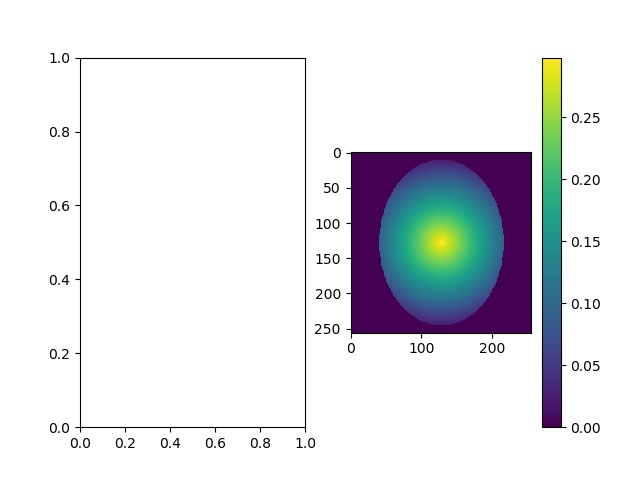
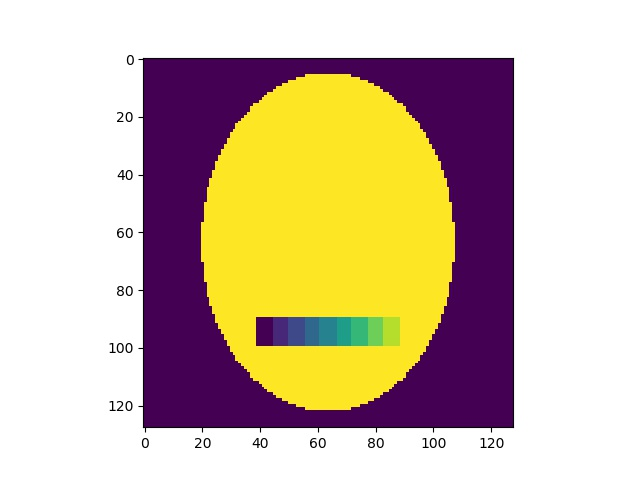
phantom size and testing

diff --git a/phantom/phantom.py b/phantom/phantom.py
@@ -44,7 +44,7 @@ def phantom_ellipses(npx: int, ellipses: np.array = None):
     return p
 
 
-def create_phantom(n_offsets: int, npx: int = 256) -> np.array:
+def create_phantom(n_offsets: int, npx: int = 128) -> np.array:
     phantom = np.zeros([n_offsets, npx, npx])
 
     for i in range(n_offsets):
@@ -67,7 +67,7 @@ def create_phantom(n_offsets: int, npx: int = 256) -> np.array:
     return phantom
 
 
-def set_mag(phantom: np.array, n_offsets: int, mvec: np.array, npx: int = 256):
+def set_mag(phantom: np.array, n_offsets: int, mvec: np.array, npx: int = 128):
     for i in range(n_offsets):
         e = [[1., .6900, .920, 0., 0., 0.],
              [-.9, .6624, .874, 0., -.0184, 0.],
@@ -88,7 +88,7 @@ def set_mag(phantom: np.array, n_offsets: int, mvec: np.array, npx: int = 256):
 
 
 
-def phantom_compartments(mz: np.array, sp: Params, offsets: list, npx: int = 256, seq_file: str = None, mtr_asym: bool = False):
+def phantom_compartments(mz: np.array, sp: Params, offsets: list, npx: int = 128, seq_file: str = None, mtr_asym: bool = False):
     if seq_file:
         z = get_z(mz=mz, seq_file=seq_file)
     else:
@@ -130,7 +130,7 @@ def phantom_compartments(mz: np.array, sp: Params, offsets: list, npx: int = 256
 
 
 def phantom_tissues_cest(mz_gm: np.array, sp_gm: Params, mz_wm: np.array, sp_wm: Params, mz_cf: np.array, sp_cf: Params,
-                    offsets: list, npx: int = 256, seq_file: str = None, mtr_asym: bool = False):
+                    offsets: list, npx: int = 128, seq_file: str = None, mtr_asym: bool = False):
     """
     function to create a phantom_examples contrasting simulations fo gray matter (gm), white matter (wm) and cerebral fluid (cf)
     """
@@ -166,12 +166,12 @@ def phantom_tissues_cest(mz_gm: np.array, sp_gm: Params, mz_wm: np.array, sp_wm:
     return phantom
 
 
-def phantom_tissues(npx: int = 256, b0: float = 3, f_tissue: (str, None) = "wm"):
+def phantom_tissues(npx: int = 128, b0: float = 3, f_tissue: (str, None) = "wm"):
     """
     creates a phantom_examples for the stated tissue types (gm: gray matter, wm: white matter and csf: cerebrospinal fluid)
     with the according t1 and t2 values from tissue_library.py and optionally a range of pool-fraction-parameters for
     one of the tissue types (if f_matter = "gm", "wm" or "csf").
-    :param  npx: int (pixel size of the phantom_examples, default = 256)
+    :param  npx: int (pixel size of the phantom_examples, default = 128)
     :param  f_tissue: str (optional tissue type to create a fraction range from, default = "wm", set to None for no
             fraction range in the phantom_examples)
     :param b0: float (field strength in T, default = 3)
@@ -193,48 +193,44 @@ def phantom_tissues(npx: int = 256, b0: float = 3, f_tissue: (str, None) = "wm")
             t_comp = compartments[i]
             if t == 0:
                 t_comp[0] = get_t1(tissue=tissues[i], b0=0)
-                print(tissues[i], " T1: ", t_comp[0])
             elif t == 1:
                 t_comp[0] = get_t2(tissue=tissues[i], b0=0)
-                print(tissues[i], " T2: ", t_comp[0])
             phantom_temp.append(t_comp)
         # phantom_temp.append(p[0])
         # phantom_temp.append(p[1])
         phantom_t[t, :, :] = phantom_ellipses(npx=npx, ellipses=phantom_temp)
     if f_tissue:
-        phantom_t[0, 190:200, 78:178] = get_t1(tissue=f_tissue, b0=b0)
-        print(f_tissue, " T1: ", phantom_t[0, 191, 79])
-        phantom_t[1, 190:200, 78:178] = get_t2(tissue=f_tissue, b0=b0)
-        print(f_tissue, " T2: ", phantom_t[1, 191, 79])
+        phantom_t[0, 90:100, 39:89] = get_t1(tissue=f_tissue, b0=b0)
+        phantom_t[1, 90:100, 39:89] = get_t2(tissue=f_tissue, b0=b0)
     return phantom_t
 
 
-def phantom_fractions(npx: int = 256, f_base: float = 10e-3 ,n_fractions: int = 10, f_range: tuple = (0, 10e-3)):
-    compartments = np.linspace(78, 178, n_fractions)
+def phantom_fractions(npx: int = 128, f_base: float = 10e-3 ,n_fractions: int = 10, f_range: tuple = (0, 10e-3)):
+    compartments = np.linspace(39, 89, n_fractions)
     fractions = np.linspace(f_range[0], f_range[1], n_fractions)
     phantom_f = np.zeros([1, npx, npx])
     phantom_base = [[f_base, .6900, .920, 0., 0., 0.]]
     phantom_f[0, :, :] = phantom_ellipses(npx=npx, ellipses=phantom_base)
     for i in range(n_fractions-1):
-        phantom_f[0, 190:200, int(round(compartments[i])):int(round(compartments[i+1]))] = fractions[i]
+        phantom_f[0, 90:100, int(round(compartments[i])):int(round(compartments[i+1]))] = fractions[i]
     return phantom_f
 
 
-def phantom_b1_inhom(npx: int = 256, min_inhom: float = -0.3, max_inhom: float = 0.3, center: (tuple, None) = (0, 0)):
+def phantom_b1_inhom(npx: int = 128, min_inhom: float = -0.3, max_inhom: float = 0.3, center: (tuple, None) = (0, 0)):
     phantom_b1 = np.zeros([1, npx, npx])
     phantom_base = [[1, .6900, .920, 0., 0., 0.]]
     phantom_b1[0, :, :] = phantom_ellipses(npx=npx, ellipses=phantom_base)
     inhom_range = max_inhom - min_inhom
-    x = y = np.linspace(-inhom_range, inhom_range, 256)
-    # y = np.linspace(0, max_inhom - min_inhom, 256)
+    x = y = np.linspace(-inhom_range, inhom_range, 128)
+    # y = np.linspace(0, max_inhom - min_inhom, 128)
     xx, yy = np.meshgrid(x, y)
     r = np.sqrt(xx ** 2 + yy ** 2)
-    b1_inhom = np.ones((256, 256)) * 0.3 - r
+    b1_inhom = np.ones((128, 128)) * 0.3 - r
     phantom_b1[0, :, :] = phantom_b1[0, :, :] * b1_inhom
     return phantom_b1
 
 
-def phantom_b0_inhom(npx: int = 256, min_inhom: float = -0.3, max_inhom: float = 0.3, center: (tuple, None) = (0, 0)):
+def phantom_b0_inhom(npx: int = 128, min_inhom: float = -0.3, max_inhom: float = 0.3, center: (tuple, None) = (0, 0)):
     phantom_b0 = np.zeros([1, npx, npx])
     phantom_base = [[1, .6900, .920, 0., 0., 0.]]
     phantom_b0[0, :, :] = phantom_ellipses(npx=npx, ellipses=phantom_base)
@@ -243,7 +239,7 @@ def phantom_b0_inhom(npx: int = 256, min_inhom: float = -0.3, max_inhom: float =
     return phantom_b0
 
 
-def build_default_phantom(npx: int = 256, fractions: bool = True):
+def build_default_phantom(npx: int = 128, fractions: bool = True):
     phantom_t = phantom_tissues(npx)
     phantom_b0 = phantom_b0_inhom(npx)
     phantom_b1 = phantom_b1_inhom(npx)

diff --git a/simulate_phantom.py b/simulate_phantom.py
@@ -10,13 +10,13 @@ phantom = build_default_phantom()
 # phantom_fig = plot_phantom(phantom)
 
 
-seq_file = 'example/wasabi/example_wasabi.seq'
+seq_file = 'example/example_APTw_test.seq'
 
 b0 = 3  # T
 gamma = 267.5153  # rad/uT
-scale = 1
+scale = 0.5
 
-p_t1, p_t2, p_b0, p_b1 = [phantom[i] for i in range(4)]
+p_t1, p_t2, p_b0, p_b1, p_f = [phantom[i] for i in range(5)]
 n_vars, n_rows, n_cols = phantom.shape
 simulations = {}
 
@@ -28,12 +28,21 @@ for loc in np.ndindex(n_rows, n_cols):
             print(loc, 'from <', n_rows, 'x', n_cols)
             sp = Params()
             b0_inhom = p_b0[loc]
-            rel_b1 = p_b1[loc]
+            rel_b1 = 1 + p_b1[loc]
             sp.set_scanner(b0=b0, gamma=gamma, b0_inhomogeneity=b0_inhom, rel_b1=rel_b1)
             f_w = 1
             r1_w = 1 / p_t1[loc]
             r2_w = 1 / p_t2[loc]
             sp.set_water_pool(r1=r1_w, r2=r2_w, f=f_w)
+            # define CEST pool parameters
+            # strong pool
+            r1 = r1_w  # [Hz]
+            r2 = 1 / 100e-3  # [Hz]
+            k = 40  # exchange rate[Hz]
+            f = p_f[loc]  # rel
+            dw = 5  # [ppm]
+            # set CEST pool parameters
+            sp.set_cest_pool(r1=r1, r2=r2, k=k, f=f, dw=dw)
             sp.set_m_vec(scale)
             Sim = BMCTool(sp, seq_file)
             Sim.run()
@@ -41,12 +50,13 @@ for loc in np.ndindex(n_rows, n_cols):
             mz = sp.get_mz(m_out)
             simulations.update({loc: sp})
             print('Mz: \n', mz)
+
 time1 = time()
 secs = time1 - time0
 print("Simulations took", secs, "s.")
 
 offsets = get_offsets(seq_file)
-dw = 1
+dw = 0.7
 offsets = np.array(offsets)
 idx = int(np.where(offsets == offsets[np.abs(offsets - dw).argmin()])[0])
 import matplotlib.pyplot as plt
@@ -55,7 +65,7 @@ phantom_sim = np.zeros([len(offsets), n_rows, n_cols])
 for o in range(len(offsets)):
     for loc in list(simulations.keys()):
         phantom_sim[o, loc[0], loc[1]] = simulations[loc].mz[o]
-for i in [5, 20, 30]:
+for i in [5, 20, 27]:
      fig, ax = plt.subplots(figsize=(12, 9))
      tmp = ax.imshow(phantom_sim[i])
      plt.title(str(offsets[i]))
@@ -69,8 +79,13 @@ fig, ax1 = plt.subplots()
 ax1.set_ylim([0, 1])
 ax1.set_ylabel('Z', color='b')
 ax1.set_xlabel('Offsets')
-plt.plot(offsets, mz, '.--', label='$Z$', color='b')
+labels = ["gm top", "gm mid", "gm bottom", "wm bottom left", "wm top right ", "csf"]
+locs = [(38, 128), (115, 128), (224, 128), (153, 82), (50, 155), (124, 144)]
+for i in range(len(locs)):
+    mz = simulations[locs[i]].mz[1:]
+    plt.plot(offsets, mz, '.--', label=labels[i])
 plt.gca().invert_xaxis()
+plt.legend()
 plt.show()
 ax1.tick_params(axis='y', labelcolor='b')
 # from sim_bmc.bmc_tool_v2 import BMCTool

diff --git a/example/phantom_examples/build_phantom.py b/example/phantom_examples/build_phantom.py
@@ -1,10 +1,18 @@
-from phantom.phantom import phantom_b0_inhom, phantom_b1_inhom,  phantom_fractions, phantom_tissues, plot_phantom
+"""
+build_phantom.py
+    test file for phantoms
+"""
+
+from phantom.phantom import phantom_b0_inhom, phantom_b1_inhom,  phantom_fractions, phantom_tissues
 import matplotlib.pyplot as plt
 
 phantom_t = phantom_tissues()
 
 phantom_f = phantom_fractions()
 
+fig, ax = plt.subplots()
+ax.imshow(phantom_f[0])
+plt.show()
 fig_t, [ax_t1, ax_t2, ax_f, ax_b0, ax_b1] = plt.subplots(1, 5)# , figsize=(12, 9))
 t1 = ax_t1.imshow(phantom_t[0])
 ax_t1.title.set_text('Phantom: T1 values')
@@ -20,7 +28,7 @@ f = ax_f.imshow(phantom_f[0])
 ax_f.title.set_text('Phantom: fractions')
 # plt.colorbar(f)
 # plt.show()
-# plt.savefig('test_phantom.jpg')
+#plt.savefig('test_phantom.jpg')
 
 phantom_b0 = phantom_b0_inhom()
 #fig_b, [ax_b0, ax_b1] = plt.subplots(1, 2)

diff --git a/simulate_bmc.py b/simulate_bmc.py
@@ -6,11 +6,8 @@ simulate_bmc.py
 from sim_bmc.bmc_tool_v2 import BMCTool
 from sim.eval import plot_z
 # choose a params file to import for the simulation
-#from set_params import sp, seq_file
+from set_params import sp, seq_file
 # from standard_cest_params import sp, seq_file
-import numpy as np
-
-from sim.params import Params
 
 Sim = BMCTool(sp, seq_file)
 Sim.run()
@@ -18,4 +15,5 @@ m_out = Sim.Mout
 
 mz = m_out[sp.mz_loc, :]
 
-fig = plot_z(mz, seq_file=seq_file, plot_mtr_asym=True)
+fig = plot_z(mz=mz, seq_file=seq_file)
+

diff --git a/example/wasabi/write_wasabi_seq.py b/example/wasabi/write_wasabi_seq.py
@@ -26,7 +26,7 @@ seq = Sequence()
 offset_range = 2 # [ppm]
 num_offsets = 41 # number of measurements (not including M0)
 run_m0_scan = True  # if you want an M0 scan at the beginning
-t_rec = 3  # recovery time between scans [s]
+t_rec = 2  # recovery time between scans [s]
 m0_t_rec = 12  # recovery time before m0 scan [s]
 sat_b1 = 3.75  # mean sat pulse b1 [uT]
 t_p = 0.005 # sat pulse duration [s]
